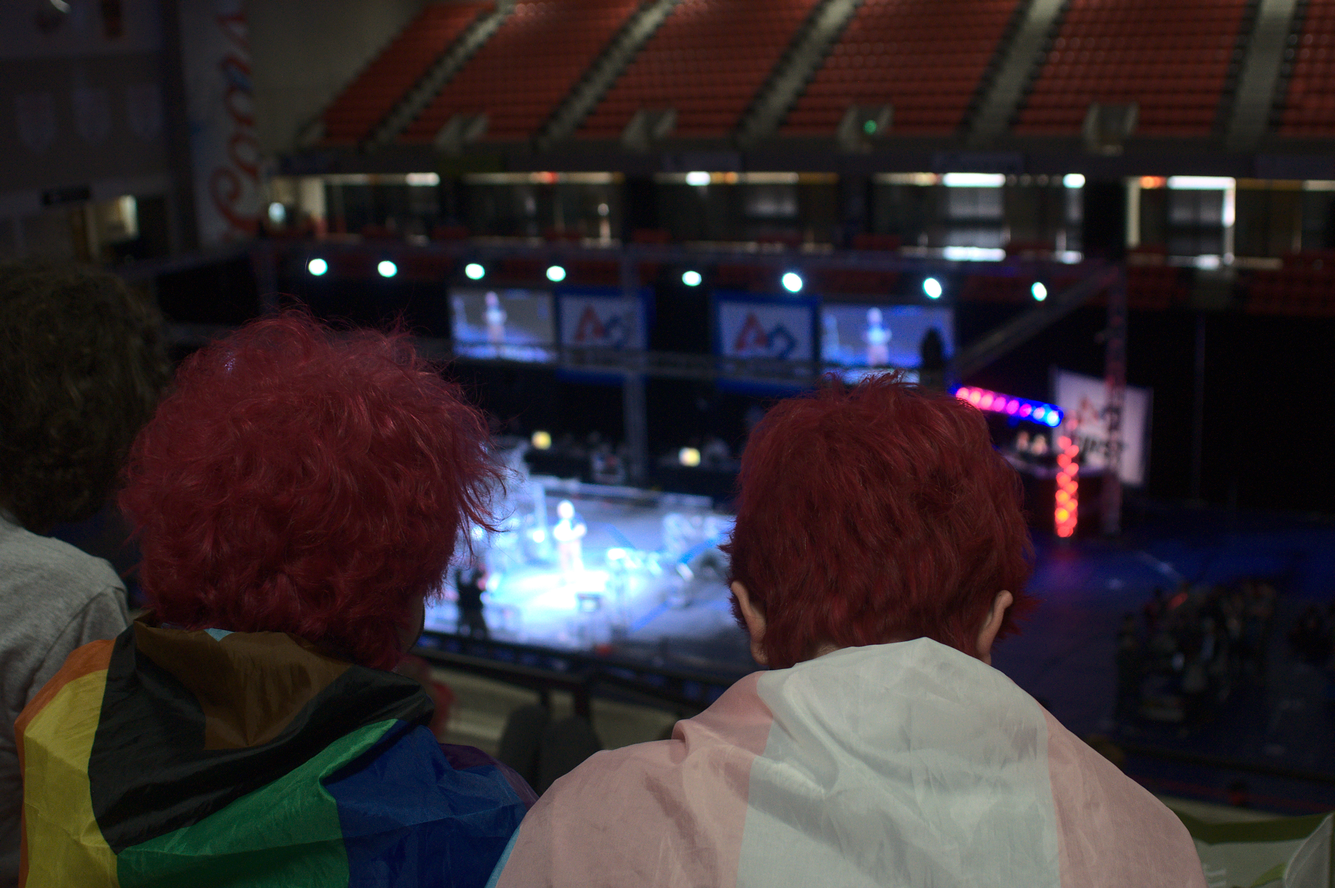
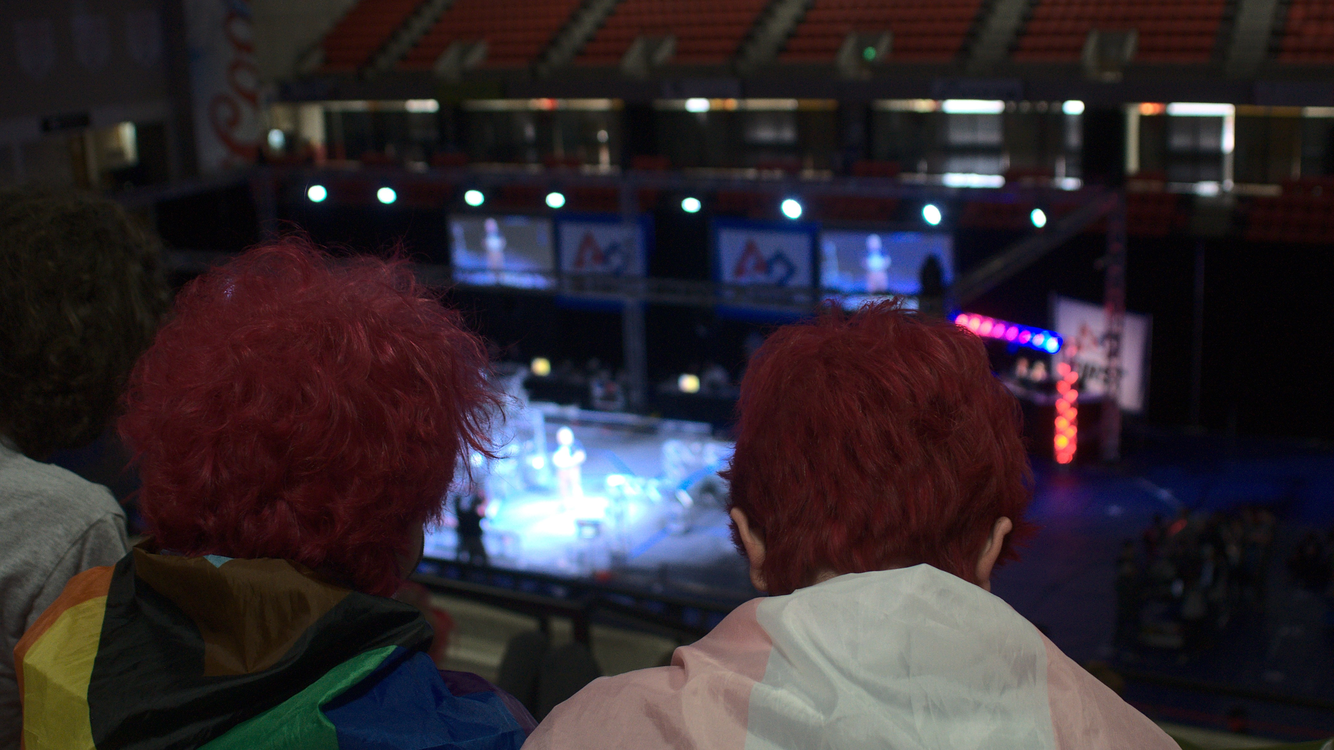
Updated Home Page Images
Updated home page images, changed resolution of last two images (from last commit). This fixed an issue where the website was taking too long to load the last two - causing some jittering

diff --git a/index.html b/index.html
@@ -10,11 +10,11 @@
       <script src="js/bootstrap-4.4.1.js"></script>
     <link rel="icon" 
       type="image/png" 
-      href="images/chainlynx%20icon%20pride.png">
+      href="images/chainlynx%20icon.png">
   </head>
   <body>
-    <nav class="navbar navbar-expand-lg navbar-light bg-light">
-      <a class="navbar-brand" href="#"><img src="images/Chainlynx%20Logo_pride.png" width="84" height="auto" alt=""/></a>
+    <nav class="navbar navbar-expand-lg navbar-dark bg-primary">
+      <a class="navbar-brand" href="#"><img src="images/Chainlynx Logo.png" width="84" height="auto" alt=""/></a>
       <button class="navbar-toggler" type="button" data-toggle="collapse" data-target="#navbarSupportedContent" aria-controls="navbarSupportedContent" aria-expanded="false" aria-label="Toggle navigation"> <span class="navbar-toggler-icon"></span> </button>
       <div class="collapse navbar-collapse" id="navbarSupportedContent">
         <ul class="navbar-nav mr-auto">
@@ -29,7 +29,6 @@
               <a class="dropdown-item" href="/photos">Photo Gallery</a> 
             </div>
           </li>
-        <li class="nav-item"> <a class="nav-link" href="/join">Join</a></li>
         </ul>
       </div>
     </nav>
@@ -51,24 +50,25 @@
         <div class="container">
             <div class="row align-items-center">
                 <div class="col-1"></div>
-                <div id="photogallery" class="carousel slide col-12" data-ride="carousel">
+                <div id="photogallery" class="carousel slide" data-ride="carousel">
   <ol class="carousel-indicators">
     <li data-target="#photogallery" data-slide-to="0" class="active"></li>
     <li data-target="#photogallery" data-slide-to="1"></li>
     <li data-target="#photogallery" data-slide-to="2"></li>
+	<li data-target="#photogallery" data-slide-to="3"></li>
   </ol>
-  <div class="carousel-inner" style="text-align: center">
+  <div class="carousel-inner">
     <div class="carousel-item active">
-      <img class="d-block w-100" src="images/carousel/Fullteamlate2021.jpg" alt="Our Team" height="auto" width="auto">
+      <img class="d-block w-100" src="images/carousel/Fullteamlate2021.jpg" alt="Our Team">
     </div>
     <div class="carousel-item">
       <img class="d-block w-100" src="images/carousel/glacierpeak.jpg" alt="Some team members working in the pit, one's taking a moment to talk to some children">
     </div>
     <div class="carousel-item">
-      <img class="d-block w-100" src="images/carousel/kickoff.jpeg" alt="Our team brainstorming our strategy for the 2022 season game at Kickoff" height="auto" width="auto">
+      <img class="d-block w-100" src="images/carousel/kickoff(altered).jpg" alt="Our team brainstorming our strategy for the 2022 season game at Kickoff">
     </div>
     <div class="carousel-item">
-      <img class="d-block w-100" src="images/carousel/watching.jpg" alt="Three members watching a match being prepared at District Championships" height="auto" width="auto">
+      <img class="d-block w-100" src="images/carousel/watching(altered).jpg" alt="Three members watching a match being prepared at District Championships">
     </div>
   </div>
   <a class="carousel-control-prev" href="#photogallery" role="button" data-slide="prev">
